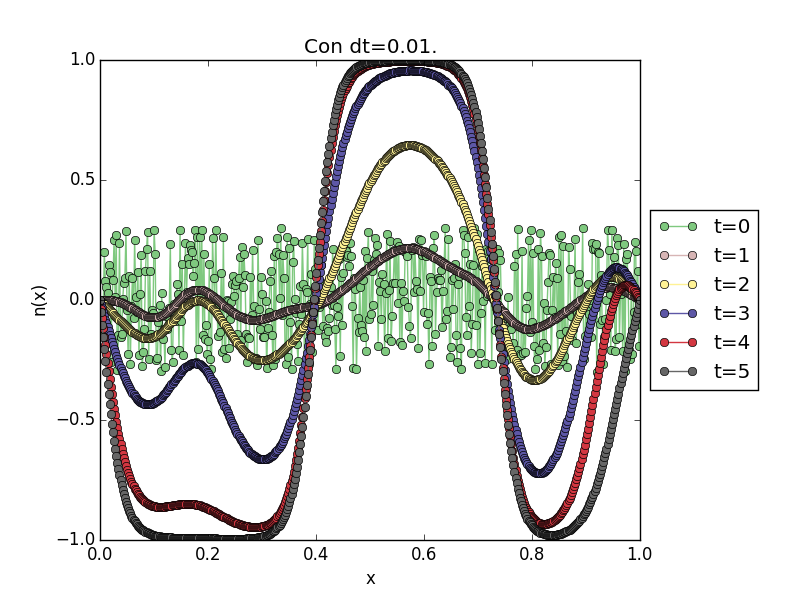
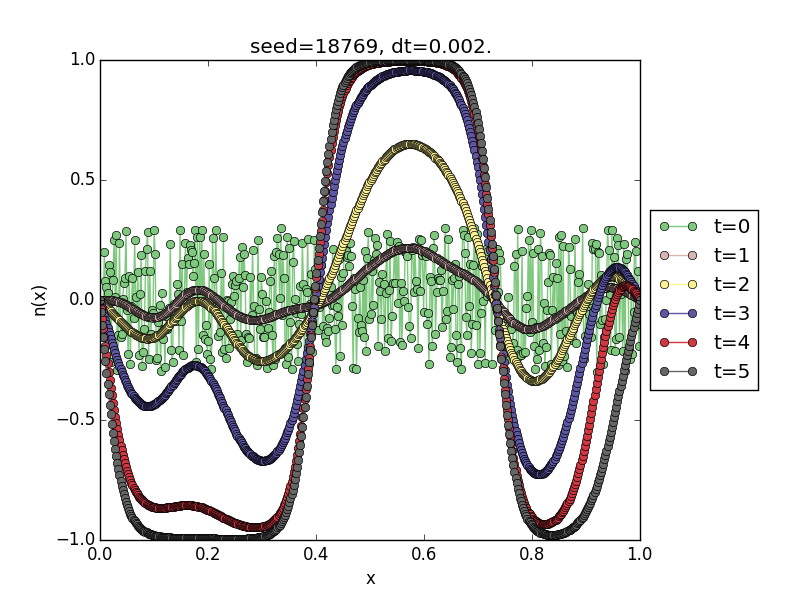
se agrega caso con otro seed y se arregla dt tal que asegure estabilidad

diff --git a/parte2_2.py b/parte2_2.py
@@ -1,13 +1,3 @@
-'''Este script resuelve la ecuacion de Fisher (parabolica no lineal) utilizando
-metodo de Crank-Nicolson para la parte de difusion y metodo explicito
-para la parte de reaccion, usando "time stepping".
-La ecuacion es de la forma: n_t= gamma n_xx + mu n (1-n). Donde n=n(t,x).
-Se usa gamma=0.001 y mu=1.5.
-Utiliza condiciones de borde u(t,0)=1, u(t,1)=0 y condicion inicial
-u(0,x)=exp(-x^2 / 0.1). Se resuelte para un tiempo entre 0 y 1, con dt=0.01
-y se escoge realizar solo 6 plots para obtener una mejor imagen.
-'''
-
 from __future__ import division
 from scipy.sparse.linalg import spsolve
 import numpy as np
@@ -15,10 +5,6 @@ import matplotlib.pyplot as plt
 from scipy.integrate import simps
 from scipy.sparse import (spdiags, coo_matrix, csc_matrix,
                           dia_matrix, dok_matrix, identity)
-
-
-def solucion_inicial(x, t=0):
-    return np.exp(-x**2 / 0.1)
 
 
 def M(x):
@@ -39,6 +25,11 @@ def Imod(x):
     return Imod.tocsc()
 
 
+def solucion_inicial(x, t=0):
+    np.random.seed(1876)
+    return np.random.uniform(low=-0.3, high=0.3, size=len(x))
+
+
 # Coeficientes y constantes
 x = np.linspace(0, 1, 500)
 x_range = (np.max(x) - np.min(x))
@@ -47,10 +38,10 @@ gamma = 0.001
 mu = 1.5
 s = gamma / dx**2
 dt = 0.002
-valor_izq = 1.0
+valor_izq = 0.0
 valor_der = 0.0
 
-# Estado inicial
+# Estado inicial de u
 n_inicial = np.matrix(solucion_inicial(x)).reshape((len(x), 1))
 n_inicial[0, 0] = valor_izq
 n_inicial[-1, -1] = valor_der
@@ -74,21 +65,21 @@ ax = plt.subplot(111)
 
 
 for i in range(0, STEPS+1):
-    # como si creara una sola lista larga
+    # crea una sola lista larga
     n_array = np.asarray(n).flatten()
 
     # reaccion (parte no lineal, calculada siempre)
-    r = np.matrix(mu*n_array*(1.0 - n_array)).reshape((len(x), 1))
+    r = np.matrix(mu*n_array*(1.0 - n_array**2)).reshape((len(x), 1))
 
     if i % abs(STEPS/PLOTS) == 0:
         plot_num = abs(i/(STEPS/PLOTS))
         completado = plot_num / PLOTS
         print "fraccion completada", completado
         print "I: %g" % (simps(n_array, dx=dx), )
-        ax.plot(x, n_array, "o", color=plt.cm.Accent(completado))
         ax.plot(x, n_array, "-o", color=plt.cm.Accent(completado),
                 label="t="+str(int(i*dt)))
         ax.legend(loc='center left', bbox_to_anchor=(1., 0.5))
+
     # Matriz A
     A = (I - dt*s*theta_matrix*M)
 
@@ -99,15 +90,16 @@ for i in range(0, STEPS+1):
     b[0, 0] = valor_izq
     b[-1, -1] = valor_der
 
-    # se revuelve An=b
-    n = spsolve(A, b)                       # Devuelve un np.array
-    n = np.matrix(n).reshape((len(x), 1))   # necesitamos un vector columna
+    # Se resuelve An=b
+    n = spsolve(A, b)                       # Returns an numpy array,
+    n = np.matrix(n).reshape((len(x), 1))   # need a column matrix
 
-plt.subplots_adjust(left=None, bottom=None, right=0.8,
-                    top=None, wspace=None, hspace=None)
-plt.title("dt=%g." % dt)
+plt.subplots_adjust(left=None, bottom=None, right=0.8, top=None,
+                    wspace=None, hspace=None)
+
+plt.title("seed=1876, dt=%g." % dt)
 plt.xlabel("x")
 plt.ylabel("n(x)")
-plt.savefig("figura1.png")
+plt.savefig("figura3.png")
 plt.show()
 plt.draw()

diff --git a/parte2.py b/parte2.py
@@ -37,7 +37,7 @@ dx = x_range / len(x)
 gamma = 0.001
 mu = 1.5
 s = gamma / dx**2
-dt = 0.01
+dt = 0.002
 valor_izq = 0.0
 valor_der = 0.0
 
@@ -57,8 +57,7 @@ theta[-1] = 0.0
 theta_matrix = dia_matrix((theta, 0), shape=(len(x), len(x))).tocsc()
 theta_matrix_1m = dia_matrix((1-theta, 0), shape=(len(x), len(x))).tocsc()
 
-
-STEPS = 500
+STEPS = 2500
 PLOTS = 5
 fig = plt.figure(1)
 fig.clf()
@@ -98,7 +97,7 @@ for i in range(0, STEPS+1):
 plt.subplots_adjust(left=None, bottom=None, right=0.8, top=None,
                     wspace=None, hspace=None)
 
-plt.title("Con dt=%g." % dt)
+plt.title("seed=18769, dt=%g." % dt)
 plt.xlabel("x")
 plt.ylabel("n(x)")
 plt.savefig("figura2.png")
